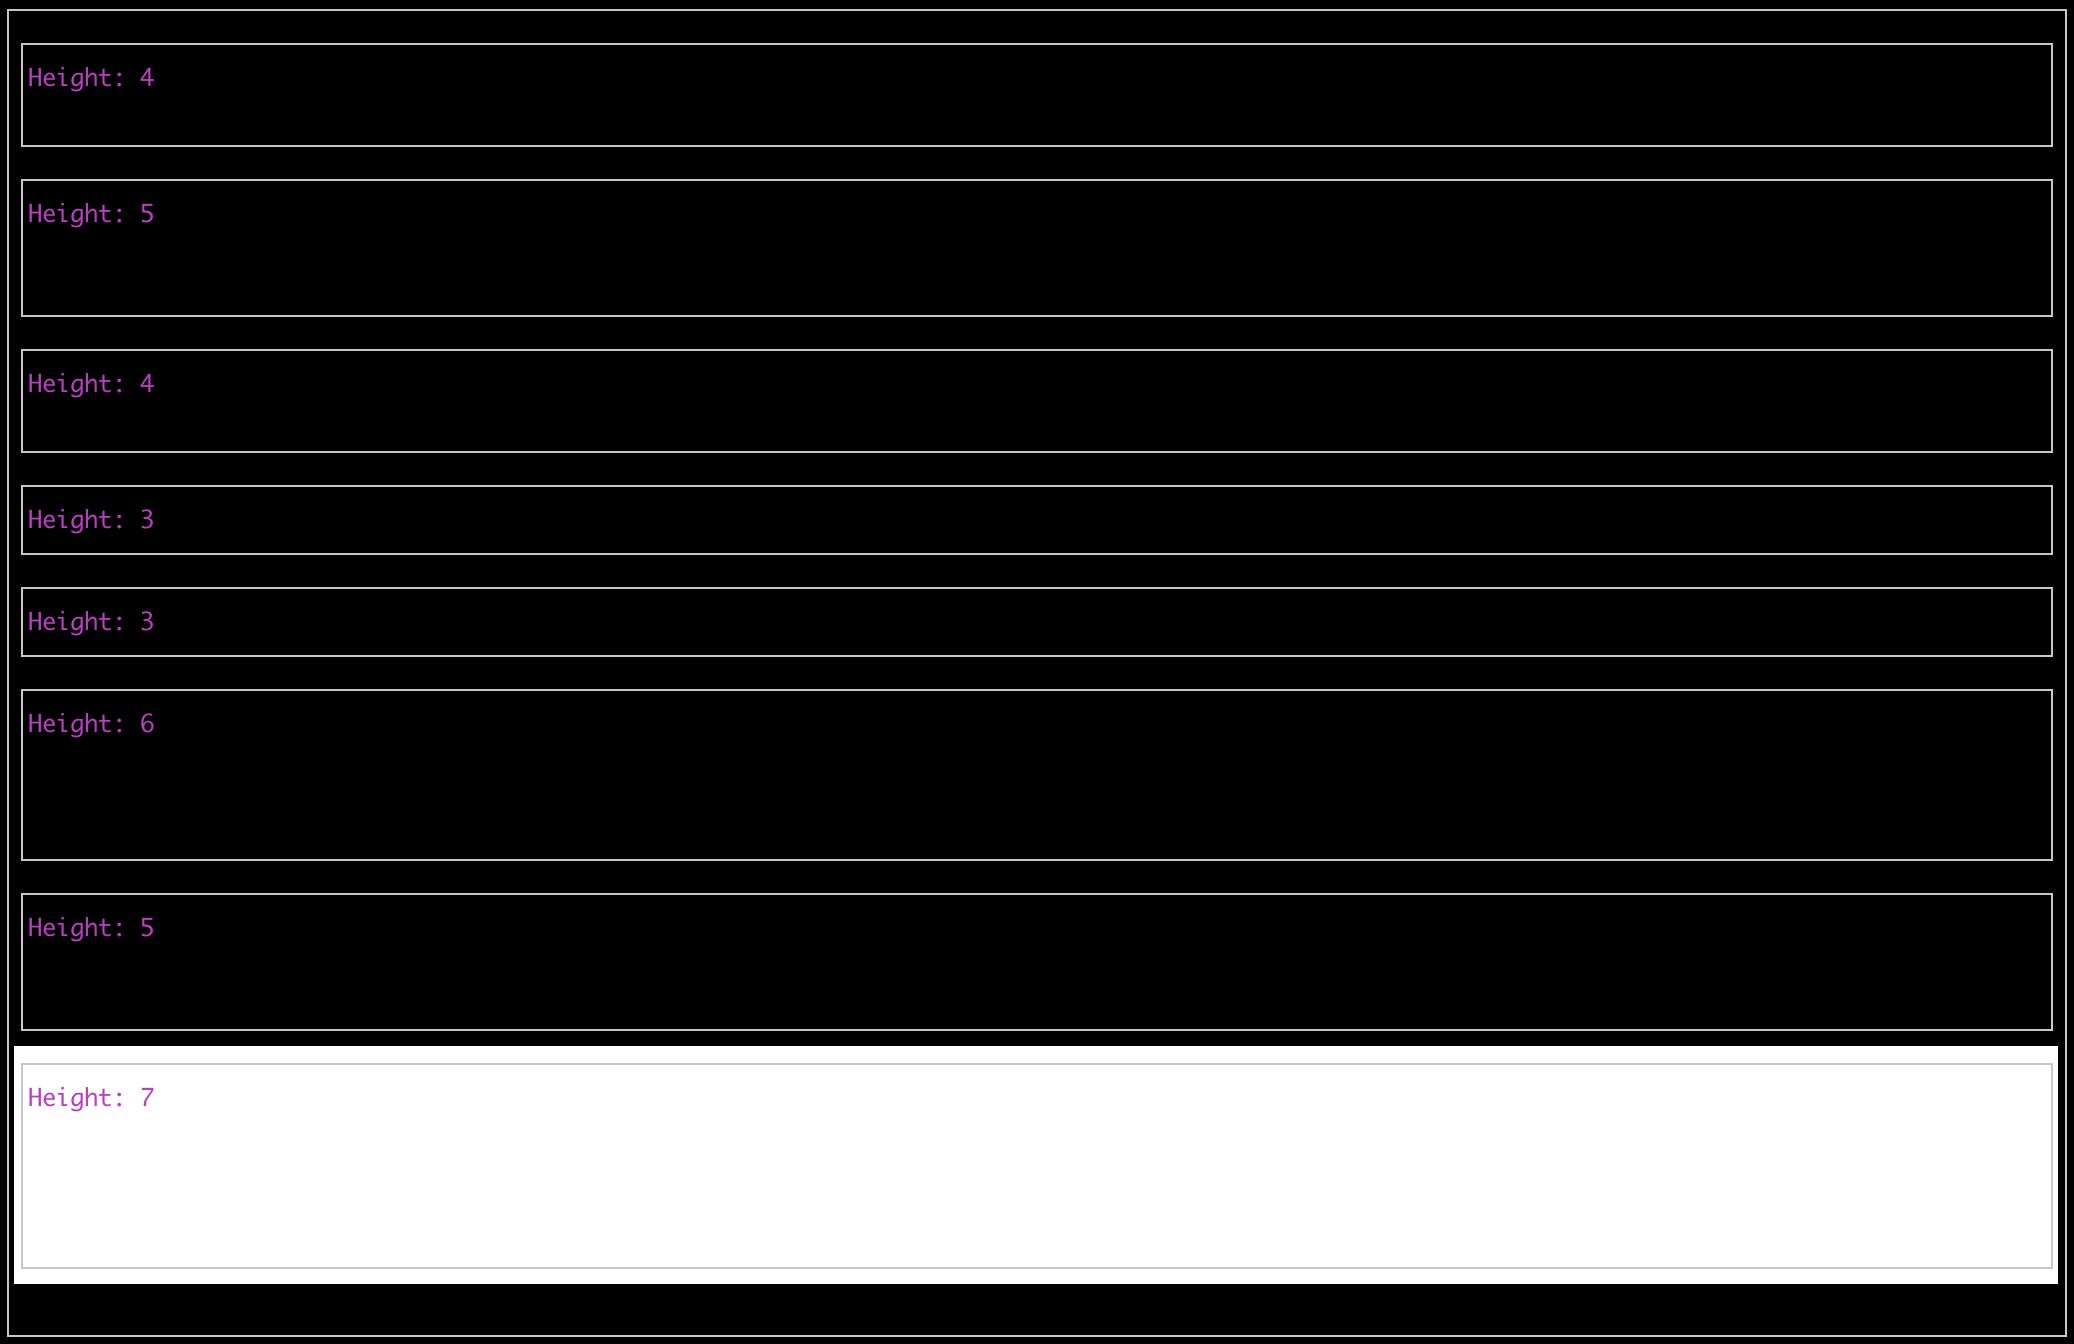
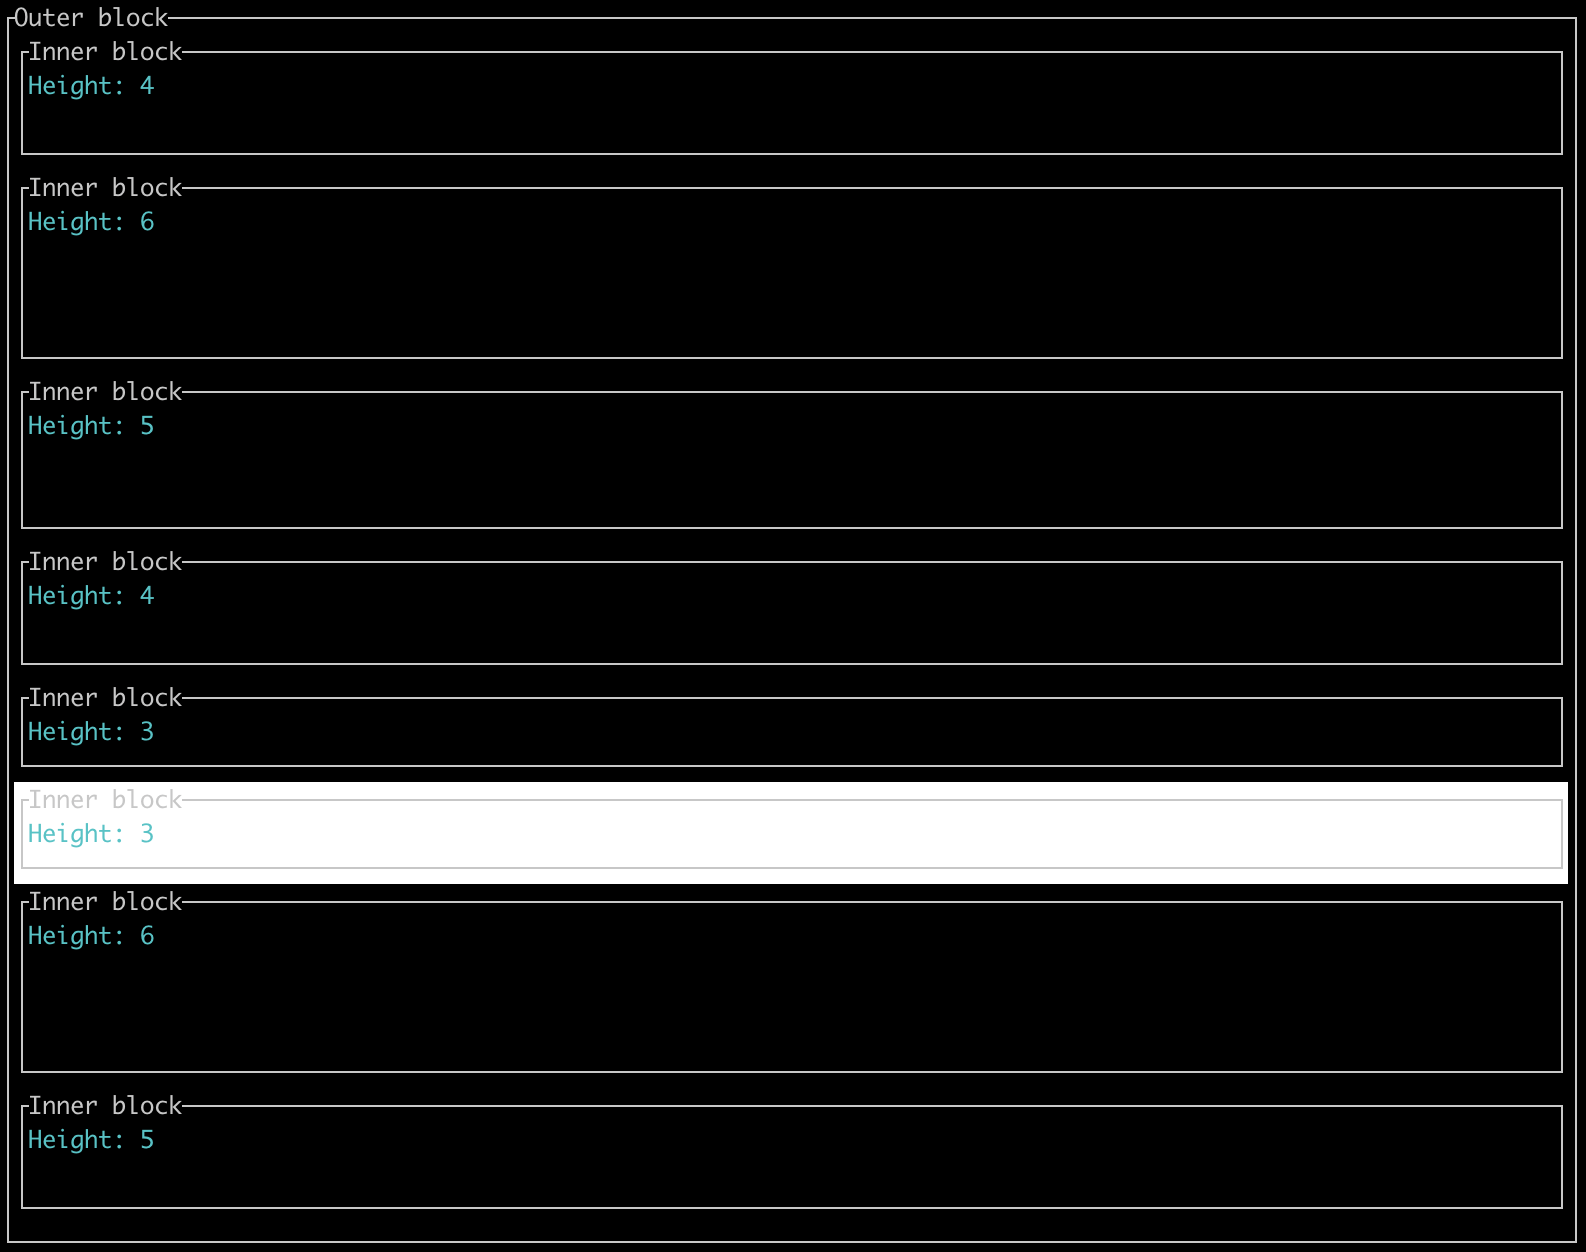
Truncate elements to fit on the full screen

diff --git a/src/widget.rs b/src/widget.rs
@@ -7,8 +7,11 @@ use ratatui::{
 
 #[derive(Debug, Clone, Default)]
 pub struct WidgetListState {
-    /// The fist item on the screen
+    /// The index of the fist item on the screen
     offset: usize,
+
+    /// The widgets rendered heights.
+    view_heights: Vec<u16>,
 
     /// The selected item
     selected: Option<usize>,
@@ -34,55 +37,71 @@ impl WidgetListState {
     /// until we have reached the maximum height. If the selected value
     /// is within the bounds we do nothing. If the selected value is out
     /// of bounds, we adjust the offset accordingly.
-    fn update_offset<I>(&mut self, heights: I, max_height: u16)
+    fn update_offset<I>(&mut self, heights: I, max_height: u16, truncate: bool)
     where
         I: Iterator<Item = u16> + ExactSizeIterator + DoubleEndedIterator + Clone,
     {
-        // We can return early if no value is selected
-        let selected = match self.selected {
-            Some(selected) => selected,
-            None => return,
-        };
         let heights: Vec<u16> = heights.collect();
-        let offset = self.offset;
+
+        // Select the first element if none is selected
+        let selected = self.selected.unwrap_or(0);
 
         // If the selected value is smaller then the offset, we roll
         // the offset so that the selected value is at the top
-        if selected < offset {
+        if selected < self.offset {
             self.offset = selected;
-            return;
         }
 
+        // The items heights on the viewport will be calculated on the fly.
+        self.view_heights.clear();
+
         // Check if the selected item is in the current view
-        let (mut y, mut i) = (0, offset);
-        for height in heights.iter().skip(offset) {
+        let (mut y, mut i) = (0, self.offset);
+        let mut found = false;
+        for height in heights.iter().skip(self.offset) {
             // Out of bounds
             if y + height > max_height {
+                if found {
+                    if truncate {
+                        // Truncate the last widget to fit into the view
+                        self.view_heights.push(max_height - y);
+                    }
+                    return;
+                }
                 break;
             }
             // Selected value is within view/bounds, so we are good
-            if selected <= i {
-                return;
+            if selected == i {
+                found = true;
             }
             y += height;
             i += 1;
+            self.view_heights.push(*height);
         }
 
         // The selected item is out of bounds. We iterate backwards from the selected
         // item and determine the first widget that still fits on the screen.
+        self.view_heights.clear();
         let (mut y, mut i) = (0, selected);
         let last_elem = heights.len() - 1;
         for height in heights.iter().rev().skip(last_elem - selected) {
             // out of bounds
             if y + height > max_height {
+                if truncate {
+                    // Currently this will truncate the bottom of the first item from. This
+                    // looks a bit strange, but I have not figured out how to truncate a
+                    // widget from the top.
+                    self.view_heights.insert(0, max_height - y);
+                    self.offset = i;
+                } else {
+                    self.offset = i + 1;
+                }
                 break;
             }
+            self.view_heights.insert(0, *height);
             y += height;
             i -= 1;
         }
-
-        // Update the offset
-        self.offset = i + 1;
     }
 }
 
@@ -149,6 +168,9 @@ pub struct WidgetList<'a, T> {
 
     /// Block surrounding the widget list
     block: Option<Block<'a>>,
+
+    /// Truncate widgets to fill full screen. Defaults to true.
+    truncate: bool,
 }
 
 impl<'a, T> Default for WidgetList<'a, T> {
@@ -157,6 +179,7 @@ impl<'a, T> Default for WidgetList<'a, T> {
             items: vec![],
             style: Style::default(),
             block: None,
+            truncate: true,
         }
     }
 }
@@ -170,6 +193,7 @@ impl<'a, T: Widget> WidgetList<'a, T> {
             items,
             style: Style::default(),
             block: None,
+            truncate: true,
         }
     }
 
@@ -184,6 +208,15 @@ impl<'a, T: Widget> WidgetList<'a, T> {
     #[must_use]
     pub fn style(mut self, style: Style) -> Self {
         self.style = style;
+        self
+    }
+
+    /// If truncate is true, the list fills the full screen
+    /// and truncates the first or last item of the list.
+    /// It is true by default.
+    #[must_use]
+    pub fn truncate(mut self, truncate: bool) -> Self {
+        self.truncate = truncate;
         self
     }
 
@@ -227,26 +260,41 @@ impl<'a, T: Widget> StatefulWidget for WidgetList<'a, T> {
         let mut y = y0;
 
         // Update the offset which might have changed between two frames
-        state.update_offset(self.items.iter().map(|item| item.height), max_height);
+        state.update_offset(
+            self.items.iter().map(|item| item.height),
+            max_height,
+            self.truncate,
+        );
 
         // Iterate over all items
-        let mut i = state.offset;
-        for item in self.items.into_iter().skip(state.offset) {
-            // Get the area of the item that we draw
-            let height = item.height;
-            if y - y0 + height > max_height {
-                // Out of bounds
-                break;
-            }
-            let area = Rect::new(x, y, width, height);
+        let first = state.offset;
+        let n = state.view_heights.len();
+        for (i, item) in self.items.into_iter().skip(first).take(n).enumerate() {
+            // Set the drawing area of the current item
+            let height = state.view_heights.get(i).unwrap();
+            let area = Rect::new(x, y, width, *height);
 
-            // Render the widget
-            let is_selected = state.selected().map(|selected| selected == i);
+            // Render the item
+            let is_selected = state.selected().map(|selected| selected == i + first);
             (item.modify_fn)(item, is_selected).render(area, buf);
 
-            // Update the vertical offset
+            // Update the offset
             y += height;
-            i += 1;
         }
     }
 }
+
+// use std::fs::OpenOptions;
+// use std::io::Write;
+// fn debug(text: &str) {
+//     // Open a file with append option
+//     let mut data_file = OpenOptions::new()
+//         .append(true)
+//         .open("data.txt")
+//         .expect("cannot open file");
+//
+//     // Write to a file
+//     data_file
+//         .write(format!("{}\n", text).as_bytes())
+//         .expect("write failed");
+// }

diff --git a/src/lib.rs b/src/lib.rs
@@ -62,6 +62,10 @@
 //!     MyListItem::new("world", 4),
 //! ];
 //! let widget_list = SelectableWidgetList::new(items);
+//!
+//! // widget_list can be rendered like any other widget in TUI. Note that
+//! // we pass it as mutable reference in order to not lose the state.
+//! // f.render_widget(&mut widget_list, area);
 //! ```
 pub mod widget;
 use ratatui::{
@@ -93,11 +97,15 @@ pub struct SelectableWidgetList<'a, T> {
     /// last element returns the first element, and calling previous on
     /// the first element returns the last element.
     circular: bool,
+
+    /// If truncate is true, the widget list will render over the full-screen.
+    /// In this case the first/last widget might be truncated.
+    truncate: bool,
 }
 
 impl<'a, T> SelectableWidgetList<'a, T>
 where
-    T: Widget + Into<WidgetListItem<T>>,
+    T: Widget + Into<WidgetListItem<T>> + Clone,
 {
     /// `items` must implement [`Widget`] and should be castable into [`WidgetListItem`].
     #[must_use]
@@ -108,6 +116,7 @@ where
             style: Style::default(),
             block: None,
             circular: true,
+            truncate: true,
         }
     }
 
@@ -130,6 +139,14 @@ where
     #[must_use]
     pub fn circular(mut self, circular: bool) -> Self {
         self.circular = circular;
+        self
+    }
+
+    /// If truncate is true, the widget list will render over the full-screen.
+    /// In this case the first/last widget might be truncated.
+    #[must_use]
+    pub fn truncate(mut self, truncate: bool) -> Self {
+        self.truncate = truncate;
         self
     }
 
@@ -180,16 +197,19 @@ where
     }
 }
 
-impl<T> Widget for SelectableWidgetList<'_, T>
+impl<T> Widget for &mut SelectableWidgetList<'_, T>
 where
-    T: Widget + Into<WidgetListItem<T>>,
+    T: Widget + Into<WidgetListItem<T>> + Clone,
 {
-    fn render(mut self, area: Rect, buf: &mut Buffer) {
-        let mut widget = WidgetList::new(self.items.into_iter().map(Into::into).collect());
-        widget = widget.style(self.style);
-        if let Some(block) = self.block {
+    fn render(self, area: Rect, buf: &mut Buffer) {
+        let items = self.items.iter().map(|x| x.clone().into()).collect();
+        let mut widget = WidgetList::new(items)
+            .style(self.style)
+            .truncate(self.truncate);
+        if let Some(block) = self.block.clone() {
             widget = widget.block(block);
         }
+
         widget.render(area, buf, &mut self.state);
     }
 }

diff --git a/examples/paragraph_list.rs b/examples/paragraph_list.rs
@@ -24,7 +24,7 @@ impl ParagraphItem<'_> {
     pub fn new(text: &str, height: u16) -> Self {
         let paragraph = Paragraph::new(vec![Spans::from(Span::styled(
             text.to_string(),
-            Style::default().fg(Color::Magenta),
+            Style::default().fg(Color::Cyan),
         ))])
         .style(Style::default().bg(Color::Black))
         .block(Block::default().borders(Borders::ALL).title("Inner block"));
@@ -111,7 +111,7 @@ impl<'a> App<'a> {
     pub fn new() -> App<'a> {
         let items = vec![
             ParagraphItem::new("Height: 4", 4),
-            ParagraphItem::new("Height: 4", 4),
+            ParagraphItem::new("Height: 6", 6),
             ParagraphItem::new("Height: 5", 5),
             ParagraphItem::new("Height: 4", 4),
             ParagraphItem::new("Height: 3", 3),
@@ -127,7 +127,8 @@ impl<'a> App<'a> {
         ];
         let list = SelectableWidgetList::new(items)
             .style(Style::default().bg(Color::Black))
-            .block(Block::default().borders(Borders::ALL).title("Outer block"));
+            .block(Block::default().borders(Borders::ALL).title("Outer block"))
+            .truncate(true);
         App { list }
     }
 }
@@ -155,5 +156,5 @@ pub fn ui<B: Backend>(f: &mut Frame<B>, app: &mut App) {
         .constraints([Constraint::Min(0)].as_ref())
         .split(f.size());
 
-    f.render_widget(app.list.clone(), chunks[0]);
+    f.render_widget(&mut app.list, chunks[0]);
 }

diff --git a/examples/simple_list.rs b/examples/simple_list.rs
@@ -171,7 +171,7 @@ pub fn ui<B: Backend>(f: &mut Frame<B>, app: &mut App) {
         .constraints([Constraint::Min(0)].as_ref())
         .split(f.size());
 
-    f.render_widget(app.list.clone(), chunks[0]);
+    f.render_widget(&mut app.list, chunks[0]);
 }
 
 fn prefix_text<'a>(text: Text<'a>, prefix: &'a str) -> Text<'a> {

diff --git a/README.md b/README.md
@@ -81,6 +81,10 @@ let items = vec![
     MyListItem::new("world", 4),
 ];
 let widget_list = SelectableWidgetList::new(items);
+
+// widget_list can be rendered like any other widget in TUI. Note that
+// we pass it as mutable reference in order to not lose the state.
+// f.render_widget(&mut widget_list, area);
 ```
 
 ![](img/screenshot.png)
